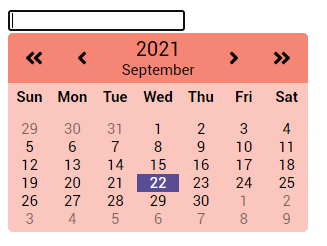
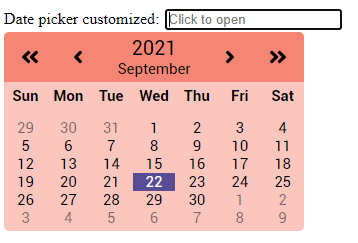
MAJ documentation

diff --git a/README.md b/README.md
@@ -84,18 +84,23 @@ const customContainerNumberDay = {
 Datepicker.defaultProps = {
     doubleLeft: DoubleLeft, // To change the default double left image
     doubleRight: DoubleRight, // To change the default double right image
+    label: "", // To change the label
     left: Left, // To change the default left image
+    placeholder: "" // To change the placeholder
     right: Right, // To change the default right image
     styleArrow: {}, // To customize the img style
     styleContainerNameDay: {}, // To customize the container style that contains the day names
     styleContainerNumberDay: {}, // To customize the container style that contains the day numbers
     styleDatePicker: {}, // To customize the datepicker container style
     styleHeader: {}, // To customize the header style of datepicker
+    styleHover: {}, // To customize the hover day style
     styleInput: {}, // To customize the input
+    styleLabel: {} // To change the label style
     styleMonth: {}, // To customize the style of the month displayed
     styleNameDay: {}, // To customize the style of the day names
     styleNumberDay: {}, // To customize the style of the days of the current month
     styleOutsideDay: {}, // To customize the style of days that do not belong to the current month
+    stylePlaceholder: {} // To change the placeholder style
     styleSelectedDay: {}, // To customize the selected day style
     styleYear: {}, // To customize the style of the year displayed
 }
@@ -108,18 +113,23 @@ Datepicker.propTypes = {
     date: PropTypes.instanceOf(Date).isRequired, // REQUIRED - To set up date
     doubleLeft: PropTypes.string,
     doubleRight: PropTypes.string,
+    label: PropTypes.string,
     left: PropTypes.string,
+    placeholder: PropTypes.string,
     right: PropTypes.string,
     styleArrow: PropTypes.object,
     styleContainerNameDay: PropTypes.object,
     styleContainerNumberDay: PropTypes.object,
     styleDatePicker: PropTypes.object,
     styleHeader: PropTypes.object,
+    styleHover: PropTypes.object,
     styleInput: PropTypes.object,
+    styleLabel: PropType.object,
     styleMonth: PropTypes.object,
     styleNameDay: PropTypes.object,
     styleNumberDay: PropTypes.object,
     styleOutsideDay: PropTypes.object,
+    stylePlaceholder: PropTypes.object,
     styleSelectedDay: PropTypes.object,
     styleYear: PropTypes.object,
 }
